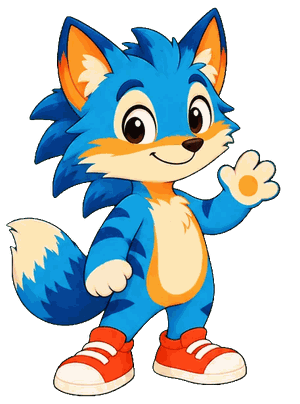
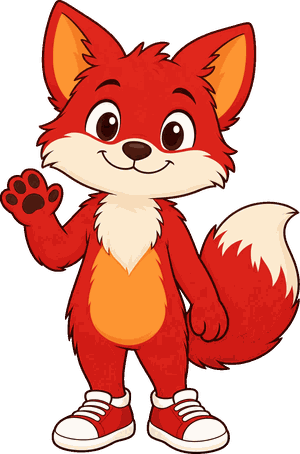
Swap in the red fox; one drawing, three mouths, blinks on all of them
The blue sheet was three drawings rendered twice each, so frames from
different drawings moved her whole head. These four images are genuinely
one drawing with the face altered: measured against the base, the ears
and forehead differ by 0.0-0.2%, while the muzzle differs 3-7% and the
eyes only in the blink frame. Any frame can follow any other.

Two of the four needed work. The wide-open frame carried a baked drop
shadow encoded as half-transparent black, which left a grey smear welded
to her feet after keying; since the silhouettes are identical, every
frame now takes its alpha from the base and the smear disappears. And no
closed-mouth blink was supplied, so it is composited: with the heads
pixel-identical, the shut eyes drop straight from the open-mouth blink
onto the base. The mid-mouth blink is made the same way.

That gives three mouth openings each with an eyes-shut twin, which
removes the previous restriction that she could only blink while silent
— there is no longer any pose to jump between.

141 KB for six frames. Source art kept in charanim/ (gitignored).

diff --git a/index.html b/index.html
@@ -356,31 +356,31 @@ function trial_narration_audio_path(t) {
     // Whole-character frames, cut from the sprite sheet and chroma-keyed. The
     // old fox was a face plate with a mouth PNG layered on it; these are full
     // poses, so animation is a straight frame swap instead.
+    // Six frames: three mouth openings, each with an eyes-open and an
+    // eyes-shut version. All six are the SAME drawing with only the face
+    // altered — measured at 0.0-0.2% difference across the ears and forehead —
+    // so any frame can follow any other without the figure shifting.
     const FRAMES = {
-        closed:     'fox_closed.png',      // mouth shut, slight smile
-        closed_alt: 'fox_closed_alt.png',  // second shut pose, for variation
-        smile:      'fox_smile.png',       // open smile
-        round:      'fox_round.png',       // small round "oh"
-        wide:       'fox_wide.png',        // wide open
-        blink:      'fox_blink.png'        // eyes shut (mouth is closed in it)
+        closed:       'fox_closed.png',        // mouth shut, slight smile
+        mid:          'fox_mid.png',           // slightly open
+        open:         'fox_open.png',          // wide open, tongue showing
+        closed_blink: 'fox_closed_blink.png',
+        mid_blink:    'fox_mid_blink.png',
+        open_blink:   'fox_open_blink.png'
     };
 
-    // The six frames are really THREE drawings rendered twice each: the head
-    // only matches within a pair (measured on the ears/forehead band, ~3%
-    // within a pair vs 13-29% across). Swapping freely between all six makes
-    // her head and ears jump every frame, which reads as jitter rather than
-    // speech. So each pair is used as a unit:
-    //
-    //   talking : closed <-> wide        (one head, shut vs wide open)
-    //   resting : smile  <-> blink       (one head, open smile vs eyes shut)
-    //
-    // That leaves one pose change when she starts or stops speaking, which
-    // reads as her turning to talk, instead of a shimmer throughout.
-    // closed_alt / round are the third pair, unused for now.
-    const OPEN_VISEMES = new Set(['Ah','Oh','WOo','Ee','Uh','R','L','F','Surprised']);
+    // Visemes collapse onto the three mouth openings the art has. Blinking is
+    // a separate axis now: because every frame is the same drawing, she can
+    // blink on any mouth shape, including mid-word.
+    const WIDE_VISEMES = new Set(['Ah','Oh','WOo','Surprised']);
+    const MID_VISEMES  = new Set(['Ee','Uh','R','L','F']);
     function frame_for(shape, speaking, blinking) {
-        if (!speaking) return blinking ? 'blink' : 'smile';
-        return OPEN_VISEMES.has(shape) ? 'wide' : 'closed';
+        let mouth = 'closed';
+        if (speaking) {
+            if (WIDE_VISEMES.has(shape))     mouth = 'open';
+            else if (MID_VISEMES.has(shape)) mouth = 'mid';
+        }
+        return blinking ? mouth + '_blink' : mouth;
     }
 
     Object.values(FRAMES).forEach(f => { const i = new Image(); i.src = ART + f; });
@@ -390,7 +390,7 @@ function trial_narration_audio_path(t) {
         /* Portrait now — the fox is a full standing figure, not a head. */
         #lick4-narrator-container { position: fixed; right: 28px; top: 110px;
             bottom: auto; left: auto;
-            width: 155px; height: 209px; z-index: 9; pointer-events: none;
+            width: 155px; height: 235px; z-index: 9; pointer-events: none;
             filter: drop-shadow(0 8px 18px rgba(0,0,0,0.20));
             transition: width 0.9s ease-in-out, height 0.9s ease-in-out,
                         right 0.9s ease-in-out, bottom 0.9s ease-in-out,
@@ -399,7 +399,7 @@ function trial_narration_audio_path(t) {
         #lick4-narrator-container.hidden { display: none !important; }
         #lick4-narrator-container.intro-center {
             right: auto; bottom: auto; left: 50%; top: 50%;
-            width: 266px; height: 358px;
+            width: 266px; height: 402px;
             /* Sits above centre, not on it: these screens put a button below the
                fox, and dead-centring her made her overlap it. */
             margin-left: -133px; margin-top: -300px;
@@ -467,7 +467,7 @@ function trial_narration_audio_path(t) {
             75%     { transform: scale(1.35) rotate(-4deg); }
         }
         @media (max-width: 900px) {
-            #lick4-narrator-container { width: 105px; height: 141px; right: 12px; top: 80px; }
+            #lick4-narrator-container { width: 105px; height: 159px; right: 12px; top: 80px; }
             #lick4-pie { width: 90px; height: 90px; left: 12px; bottom: 12px; }
         }
     `;
@@ -605,14 +605,13 @@ function trial_narration_audio_path(t) {
                      speaking: true };
         }
 
-        // Blink every 2.5-6s, held ~140ms. Only while she's quiet: the blink
-        // pose has a closed mouth, so blinking mid-word would snap her mouth
-        // shut. There's no combined open-mouth-blinking frame to use.
+        // Blink every 2.5-6s, held ~140ms, whether or not she is talking —
+        // every mouth shape has an eyes-shut twin.
         let blinking = false, blinkUntil = 0, nextBlink = performance.now() + 2500;
-        function blinkTick(now, speaking) {
+        function blinkTick(now) {
             if (blinking) {
                 if (now >= blinkUntil) { blinking = false; nextBlink = now + 2500 + Math.random() * 3500; }
-            } else if (!speaking && now > nextBlink) {
+            } else if (now > nextBlink) {
                 blinking = true;
                 blinkUntil = now + 140;
             }
@@ -620,7 +619,7 @@ function trial_narration_audio_path(t) {
 
         function tick(now) {
             const { shape, speaking } = currentMouth();
-            blinkTick(now, speaking);
+            blinkTick(now);
             const frame = frame_for(shape, speaking, blinking);
             // Re-query each frame: jsPsych can wipe and remount the container,
             // so state lives on the element rather than in captured vars.

diff --git a/experiment.js b/experiment.js
@@ -196,31 +196,31 @@ function trial_narration_audio_path(t) {
     // Whole-character frames, cut from the sprite sheet and chroma-keyed. The
     // old fox was a face plate with a mouth PNG layered on it; these are full
     // poses, so animation is a straight frame swap instead.
+    // Six frames: three mouth openings, each with an eyes-open and an
+    // eyes-shut version. All six are the SAME drawing with only the face
+    // altered — measured at 0.0-0.2% difference across the ears and forehead —
+    // so any frame can follow any other without the figure shifting.
     const FRAMES = {
-        closed:     'fox_closed.png',      // mouth shut, slight smile
-        closed_alt: 'fox_closed_alt.png',  // second shut pose, for variation
-        smile:      'fox_smile.png',       // open smile
-        round:      'fox_round.png',       // small round "oh"
-        wide:       'fox_wide.png',        // wide open
-        blink:      'fox_blink.png'        // eyes shut (mouth is closed in it)
+        closed:       'fox_closed.png',        // mouth shut, slight smile
+        mid:          'fox_mid.png',           // slightly open
+        open:         'fox_open.png',          // wide open, tongue showing
+        closed_blink: 'fox_closed_blink.png',
+        mid_blink:    'fox_mid_blink.png',
+        open_blink:   'fox_open_blink.png'
     };
 
-    // The six frames are really THREE drawings rendered twice each: the head
-    // only matches within a pair (measured on the ears/forehead band, ~3%
-    // within a pair vs 13-29% across). Swapping freely between all six makes
-    // her head and ears jump every frame, which reads as jitter rather than
-    // speech. So each pair is used as a unit:
-    //
-    //   talking : closed <-> wide        (one head, shut vs wide open)
-    //   resting : smile  <-> blink       (one head, open smile vs eyes shut)
-    //
-    // That leaves one pose change when she starts or stops speaking, which
-    // reads as her turning to talk, instead of a shimmer throughout.
-    // closed_alt / round are the third pair, unused for now.
-    const OPEN_VISEMES = new Set(['Ah','Oh','WOo','Ee','Uh','R','L','F','Surprised']);
+    // Visemes collapse onto the three mouth openings the art has. Blinking is
+    // a separate axis now: because every frame is the same drawing, she can
+    // blink on any mouth shape, including mid-word.
+    const WIDE_VISEMES = new Set(['Ah','Oh','WOo','Surprised']);
+    const MID_VISEMES  = new Set(['Ee','Uh','R','L','F']);
     function frame_for(shape, speaking, blinking) {
-        if (!speaking) return blinking ? 'blink' : 'smile';
-        return OPEN_VISEMES.has(shape) ? 'wide' : 'closed';
+        let mouth = 'closed';
+        if (speaking) {
+            if (WIDE_VISEMES.has(shape))     mouth = 'open';
+            else if (MID_VISEMES.has(shape)) mouth = 'mid';
+        }
+        return blinking ? mouth + '_blink' : mouth;
     }
 
     Object.values(FRAMES).forEach(f => { const i = new Image(); i.src = ART + f; });
@@ -238,7 +238,7 @@ function trial_narration_audio_path(t) {
             bottom: auto;
             left: auto;
             width: 155px;
-            height: 209px;   /* full standing figure, portrait */
+            height: 235px;   /* full standing figure, portrait */
             z-index: 9;
             pointer-events: none;
             filter: drop-shadow(0 8px 18px rgba(0,0,0,0.20));
@@ -257,7 +257,7 @@ function trial_narration_audio_path(t) {
             left: 50%;
             top:  50%;
             width:  266px;
-            height: 358px;
+            height: 402px;
             margin-left: -133px;
             margin-top:  -300px;
         }
@@ -362,7 +362,7 @@ function trial_narration_audio_path(t) {
             75%      { transform: scale(1.35) rotate(-4deg); }
         }
         @media (max-width: 900px) {
-            #lick4-narrator-container { width: 105px; height: 141px; right: 12px; top: 80px; }
+            #lick4-narrator-container { width: 105px; height: 159px; right: 12px; top: 80px; }
             #lick4-pie { width: 90px; height: 90px; left: 12px; bottom: 12px; }
         }
     `;
@@ -536,14 +536,13 @@ function trial_narration_audio_path(t) {
                      speaking: true };
         }
 
-        // Blink every 2.5-6s, held ~140ms. Only while she's quiet: the blink
-        // pose has a closed mouth, so blinking mid-word would snap her mouth
-        // shut. There's no combined open-mouth-blinking frame to use.
+        // Blink every 2.5-6s, held ~140ms, whether or not she is talking —
+        // every mouth shape has an eyes-shut twin.
         let blinking = false, blinkUntil = 0, nextBlink = performance.now() + 2500;
-        function blinkTick(now, speaking) {
+        function blinkTick(now) {
             if (blinking) {
                 if (now >= blinkUntil) { blinking = false; nextBlink = now + 2500 + Math.random() * 3500; }
-            } else if (!speaking && now > nextBlink) {
+            } else if (now > nextBlink) {
                 blinking = true;
                 blinkUntil = now + 140;
             }
@@ -551,7 +550,7 @@ function trial_narration_audio_path(t) {
 
         function tick(now) {
             const { shape, speaking } = currentMouth();
-            blinkTick(now, speaking);
+            blinkTick(now);
             const frame = frame_for(shape, speaking, blinking);
             // Look the container up fresh each frame — jsPsych can wipe and
             // remount it, so state lives on the element itself.
